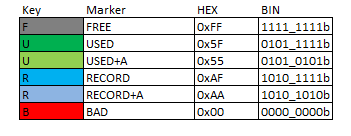
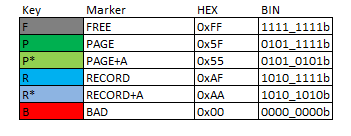
Changed page marker names to PAGE and PAGE_A to clarify meaning

diff --git a/data/src/px_log_fs.c b/data/src/px_log_fs.c
@@ -34,8 +34,8 @@ PX_DBG_DECL_NAME("px_log_fs");
 /// @name Marker values
 //@{
 #define PX_LOG_FS_MARKER_FREE       0xff        /* 1111_1111b */
-#define PX_LOG_FS_MARKER_USED       0x5f        /* 0101_1111b */
-#define PX_LOG_FS_MARKER_USED_A     0x55        /* 0101_0101b */
+#define PX_LOG_FS_MARKER_PAGE       0x5f        /* 0101_1111b */
+#define PX_LOG_FS_MARKER_PAGE_A     0x55        /* 0101_0101b */
 #define PX_LOG_FS_MARKER_RECORD     0xaf        /* 1010_1111b */
 #define PX_LOG_FS_MARKER_RECORD_A   0xaa        /* 1010_1010b */
 #define PX_LOG_FS_MARKER_BAD        0x00        /* 0000_0000b */
@@ -44,15 +44,15 @@ PX_DBG_DECL_NAME("px_log_fs");
 /// Definition of header structure that is stored at the start of each page
 typedef struct
 {
-    uint8_t  marker;                            ///< FREE, USED or BAD
-    uint16_t nr;                                ///< Rolling number to find first and last used page
+    uint8_t  marker;                            ///< FREE, PAGE, PAGE_A or BAD
+    uint16_t nr;                                ///< Rolling number to find first and last marked page
     uint8_t  crc;                               ///< Checksum calculated over nr (excludes marker)
 } PX_ATTR_PACKED px_log_fs_header_t;
 
 /// Definition of a record structure
 typedef struct
 {
-    uint8_t marker;                             ///< RECORD marker
+    uint8_t marker;                             ///< RECORD or RECORD_A
     uint8_t data[PX_LOG_FS_CFG_REC_DATA_SIZE];  ///< Record data content
     uint8_t crc;                                ///< Checksum calculated over data (excludes marker)
 } PX_ATTR_PACKED px_log_fs_record_t;
@@ -87,10 +87,10 @@ static inline bool px_log_fs_marker_is_free(uint8_t marker)
     }
 }
 
-static inline bool px_log_fs_marker_is_used(uint8_t marker)
+static inline bool px_log_fs_marker_is_page(uint8_t marker)
 {
-    if(  (marker == PX_LOG_FS_MARKER_USED  )
-       ||(marker == PX_LOG_FS_MARKER_USED_A)  )
+    if(  (marker == PX_LOG_FS_MARKER_PAGE  )
+       ||(marker == PX_LOG_FS_MARKER_PAGE_A)  )
     {
         return true;
     }
@@ -273,7 +273,7 @@ static uint8_t px_log_fs_header_rd(px_log_fs_header_t * header, uint16_t page)
         return header->marker;
     }
     // Invalid marker?
-    if(!px_log_fs_marker_is_used(header->marker))
+    if(!px_log_fs_marker_is_page(header->marker))
     {
         // Mark as BAD
         PX_DBG_ERR("Invalid marker 0x%02X @ page %u", header->marker, page);
@@ -305,11 +305,11 @@ static uint16_t px_log_fs_header_rd_first(const px_log_fs_handle_t * handle,
     page = handle->fs_page_start;
     while(true)
     {
-        // Read page header. Is it USED?
+        // Read page header. Is it marked?
         marker = px_log_fs_header_rd(header, page);
-        if(px_log_fs_marker_is_used(marker))
+        if(px_log_fs_marker_is_page(marker))
         {
-            // USED page found
+            // Marked page found
             return page;
         }
         // Last page read?
@@ -342,11 +342,11 @@ static uint16_t px_log_fs_header_rd_next(const px_log_fs_handle_t * handle,
             // Marker not found
             return PX_LOG_FS_PAGE_INVALID;
         }
-        // Read page header. Is it a USED page?
+        // Read page header. Is it a marked page?
         marker = px_log_fs_header_rd(header, page);
-        if(px_log_fs_marker_is_used(marker))
+        if(px_log_fs_marker_is_page(marker))
         {
-            // USED page found
+            // Marked page found
             return page;
         }
     }
@@ -479,12 +479,12 @@ px_log_fs_err_t px_log_fs_init(px_log_fs_handle_t * handle,
     // Save file system start and end page
     handle->fs_page_start = fs_page_start;
     handle->fs_page_end   = fs_page_end;
-    // Read first USED page
+    // Read first marked page
     page_first = px_log_fs_header_rd_first(handle, &header);
     if(page_first == PX_LOG_FS_PAGE_INVALID)
     {
         // None found. File system is empty
-        PX_DBG_INFO("No USED pages found");
+        PX_DBG_INFO("No marked pages found");
         handle->page_first    = PX_LOG_FS_PAGE_INVALID;
         handle->page_last     = PX_LOG_FS_PAGE_INVALID;
         handle->page_nr_next  = 0;
@@ -492,17 +492,17 @@ px_log_fs_err_t px_log_fs_init(px_log_fs_handle_t * handle,
         handle->adr_wr.offset = PX_LOG_FS_REC_OFFSET_FIRST;
         return PX_LOG_FS_ERR_NONE;
     }
-    // Continue from first USED page...
+    // Continue from first marked page...
     page = page_first;
     do
     {
         // Save page number
         page_nr = header.nr;
-        // Read next USED page
+        // Read next marked page
         page_next = px_log_fs_header_rd_next(handle, &header, page);
         if(page_next == PX_LOG_FS_PAGE_INVALID)
         {
-            // Only one USED page found
+            // Only one marked page found
             handle->page_first   = page;
             handle->page_last    = page;
             handle->page_nr_next = ++page_nr;
@@ -518,7 +518,7 @@ px_log_fs_err_t px_log_fs_init(px_log_fs_handle_t * handle,
                      page_nr_diff, page, page_nr, page_next, page_nr_next);
             // Save largest difference so far
             page_nr_diff_largest = page_nr_diff;
-            // Save candidates for first and last USED page
+            // Save candidates for first and last marked page
             handle->page_first   = page_next;
             handle->page_last    = page;
             handle->page_nr_next = ++page_nr;
@@ -541,9 +541,9 @@ px_log_fs_err_t px_log_fs_init(px_log_fs_handle_t * handle,
     }
 
     // Report first and last page
-    PX_DBG_INFO("First USED page %u", handle->page_first);
-    PX_DBG_INFO("Last USED page %u",  handle->page_last);
-    PX_DBG_INFO("Next page nr %u",    handle->page_nr_next);
+    PX_DBG_INFO("First marked page %u", handle->page_first);
+    PX_DBG_INFO("Last marked page %u",  handle->page_last);
+    PX_DBG_INFO("Next page nr %u",      handle->page_nr_next);
 
     return PX_LOG_FS_ERR_NONE;
 }
@@ -572,11 +572,11 @@ px_log_fs_err_t px_log_fs_reset(px_log_fs_handle_t * handle,
     handle->fs_page_start = fs_page_start;
     handle->fs_page_end   = fs_page_end;
 
-    // Mark all USED pages as BAD
+    // Mark all used pages as BAD
     for(page = fs_page_start; page <= fs_page_end; page++)
     {
         marker = px_log_fs_header_rd(&header, page);
-        if(px_log_fs_marker_is_used(marker))
+        if(px_log_fs_marker_is_page(marker))
         {
             header.marker = PX_LOG_FS_MARKER_BAD;
             px_log_fs_glue_wr(&header.marker, page, 0, 1);
@@ -609,7 +609,7 @@ px_log_fs_err_t px_log_fs_rd_first(px_log_fs_handle_t * handle,
                                    void *               data,
                                    size_t               nr_of_bytes)
 {
-    // No USED pages?
+    // No marked pages?
     if(handle->page_first == PX_LOG_FS_PAGE_INVALID)
     {
         return PX_LOG_FS_ERR_EMPTY;
@@ -629,7 +629,7 @@ px_log_fs_err_t px_log_fs_rd_first_unarchived(px_log_fs_handle_t * handle,
     px_log_fs_header_t header;
     uint8_t            marker;
 
-    // No USED pages?
+    // No marked pages?
     if(handle->page_first == PX_LOG_FS_PAGE_INVALID)
     {
         return PX_LOG_FS_ERR_EMPTY;
@@ -642,7 +642,7 @@ px_log_fs_err_t px_log_fs_rd_first_unarchived(px_log_fs_handle_t * handle,
         // Read page marker
         marker = px_log_fs_header_rd(&header, handle->adr_rd.page);
         // First unarchived page?
-        if(marker == PX_LOG_FS_MARKER_USED)
+        if(marker == PX_LOG_FS_MARKER_PAGE)
         {
             // First unarchived page found. Stop
             break;
@@ -702,8 +702,8 @@ px_log_fs_err_t px_log_fs_rd_next(px_log_fs_handle_t * handle,
         // Next page?
         if(handle->adr_rd.offset == PX_LOG_FS_REC_OFFSET_FIRST)
         {
-            // Find next USED page
-            while(!px_log_fs_marker_is_used(px_log_fs_header_rd(&header, handle->adr_rd.page)))
+            // Find next marked page
+            while(!px_log_fs_marker_is_page(px_log_fs_header_rd(&header, handle->adr_rd.page)))
             {
                 if(handle->adr_rd.page == handle->page_last)
                 {
@@ -738,7 +738,7 @@ px_log_fs_err_t px_log_fs_rd_last(px_log_fs_handle_t * handle,
                                   void *               data,
                                   size_t               nr_of_bytes)
 {
-    // No USED pages?
+    // No marked pages?
     if(handle->page_first == PX_LOG_FS_PAGE_INVALID)
     {
         return PX_LOG_FS_ERR_EMPTY;
@@ -781,8 +781,8 @@ px_log_fs_err_t px_log_fs_rd_previous(px_log_fs_handle_t * handle,
         // Previous page?
         if(handle->adr_rd.offset == PX_LOG_FS_REC_OFFSET_LAST)
         {
-            // Find previous USED page
-            while(!px_log_fs_marker_is_used(px_log_fs_header_rd(&header, handle->adr_rd.page)))
+            // Find previous marked page
+            while(!px_log_fs_marker_is_page(px_log_fs_header_rd(&header, handle->adr_rd.page)))
             {
                 if(handle->adr_rd.page == handle->page_first)
                 {
@@ -863,7 +863,7 @@ px_log_fs_err_t px_log_fs_rd_rec_set_archive(px_log_fs_handle_t * handle)
             // Mark whole page as archived.
             adr.page   = handle->adr_rd.page;
             adr.offset = 0;
-            if(!px_log_fs_marker_wr(PX_LOG_FS_MARKER_USED_A, &adr))
+            if(!px_log_fs_marker_wr(PX_LOG_FS_MARKER_PAGE_A, &adr))
             {
                 PX_DBG_ERR("Failed to mark page as archived. Lost whole page of records!");
                 return PX_LOG_FS_ERR_WRITE_FAIL;
@@ -941,9 +941,9 @@ px_log_fs_err_t px_log_fs_wr(px_log_fs_handle_t * handle,
                     page = handle->adr_wr.page + PX_LOG_FS_CFG_ERASE_BLOCK_SIZE;
                     while(true)
                     {
-                        // Is page USED?
+                        // Is page marked?
                         marker = px_log_fs_header_rd(&header, handle->adr_wr.page);
-                        if(px_log_fs_marker_is_used(marker))
+                        if(px_log_fs_marker_is_page(marker))
                         {
                             // Save new first page
                             handle->page_first = page;
@@ -962,8 +962,8 @@ px_log_fs_err_t px_log_fs_wr(px_log_fs_handle_t * handle,
                 break;
             }
         }
-        // Mark page as USED
-        header.marker = PX_LOG_FS_MARKER_USED;
+        // Mark page
+        header.marker = PX_LOG_FS_MARKER_PAGE;
         header.nr     = handle->page_nr_next++;
         if(!px_log_fs_header_wr(&header, handle->adr_wr.page))
         {
@@ -1001,14 +1001,14 @@ void px_log_fs_dbg_report_info(px_log_fs_handle_t * handle)
     uint16_t           page;
     uint8_t            i;
 
-    printf("Page start: 0x%04X\n",   handle->fs_page_start);
-    printf("Page end: 0x%04X\n",     handle->fs_page_end);
-    printf("Page size: %u\n",        PX_LOG_FS_CFG_PAGE_SIZE);
-    printf("Record size: %u\n",      sizeof(px_log_fs_record_t));
-    printf("Record data size: %u\n", PX_LOG_FS_CFG_REC_DATA_SIZE);
-    printf("Records per page: %u\n", PX_LOG_FS_RECORDS_PER_PAGE);
-    printf("First page: %u\n",       handle->page_first);
-    printf("Last page: %u\n",        handle->page_last);
+    printf("Page start:       0x%04X\n", handle->fs_page_start);
+    printf("Page end:         0x%04X\n", handle->fs_page_end);
+    printf("Page size:        %u\n",     PX_LOG_FS_CFG_PAGE_SIZE);
+    printf("Record size:      %u\n",     sizeof(px_log_fs_record_t));
+    printf("Record data size: %u\n",     PX_LOG_FS_CFG_REC_DATA_SIZE);
+    printf("Records per page: %u\n",     PX_LOG_FS_RECORDS_PER_PAGE);
+    printf("First page:       0x%04X\n", handle->page_first);
+    printf("Last page:        0x%04X\n", handle->page_last);
 
     printf("\n        ");
     for(i = 0; i < 16; i++)
@@ -1030,11 +1030,11 @@ void px_log_fs_dbg_report_info(px_log_fs_handle_t * handle)
         case PX_LOG_FS_MARKER_FREE:
             printf("x      ");
             break;
-        case PX_LOG_FS_MARKER_USED:
-            printf("U %04x ", header.nr);
+        case PX_LOG_FS_MARKER_PAGE:
+            printf("P %04x ", header.nr);
             break;
-        case PX_LOG_FS_MARKER_USED_A:
-            printf("Ua%04x ", header.nr);
+        case PX_LOG_FS_MARKER_PAGE_A:
+            printf("P*%04x ", header.nr);
             break;
         case PX_LOG_FS_MARKER_BAD:
             // Fall through...

diff --git a/data/inc/px_log_fs.h b/data/inc/px_log_fs.h
@@ -104,7 +104,7 @@
  *
  *  @tip_s
  *  By inspecting the bits, it can be observed that a marker can be changed from
- *  FREE to USED to USED+A to BAD, but not the other way around without erasing
+ *  FREE to PAGE to PAGE+A to BAD, but not the other way around without erasing
  *  the whole block.
  *  @tip_e
  *
@@ -112,13 +112,13 @@
  *  consists of an 8-bit marker, a 16-bit incrementing number and an 8-bit CRC.
  *  Only the first 4 bytes of each page is read to quickly index the whole file
  *  system during px_log_fs_init(). The incrementing number is used to figure
- *  out which is the oldest USED page and which is the newest during
+ *  out which is the oldest page and which is the newest during
  *  px_log_fs_init().
  *
  *  ![Page header structure](log_fs/page_header.png)
  *
- *  Pages containing records are marked as USED. Each record
- *  (px_log_fs_record_t) contains an 8-bit RECORD marker, the record data
+ *  Pages containing records are marked with PAGE (0x5F). Each record
+ *  (px_log_fs_record_t) contains an 8-bit RECORD marker (0xAF), the record data
  *  (fixed size set with #PX_LOG_FS_CFG_REC_DATA_SIZE) and an 8-bit CRC.
  *
  *  ![Record structure](log_fs/record.png)
@@ -174,16 +174,17 @@
  *  5. Archiving records
  *  ====================
  *
- *  Oldest records can be marked as archived (RECORD+A marker) for example when
- *  the record has been succesfully uploaded to a server. This makes it possible
- *  to find the next (unarchived) record that must be uploaded to the server
- *  after a reset or power interruption.
+ *  Oldest records can be marked as archived (RECORD+A marker = 0xAA) for
+ *  example when the record has been succesfully uploaded to a server. This
+ *  makes it possible to find the next (unarchived) record that must be uploaded
+ *  to the server after a reset or power interruption.
  *
  *  If all the records on a page is marked as archived then the page is marked
- *  as archived too (USED+A marker). This makes it faster to find the first
- *  unarchived record, because each page marker is inspected until the first
- *  unarchived page (USED marker) is found. Then each record on that page is
- *  inspected until the first unarchived record is found (RECORD marker).
+ *  as archived too (PAGE+A marker = 0x55). This makes it faster to find the
+ *  first unarchived record, because each page marker is inspected until the
+ *  first unarchived page (PAGE marker = 0x5F) is found. Then each record on
+ *  that page is inspected until the first unarchived record is found
+ *  (RECORD marker =0xAF).
  *
  */
 /// @{
